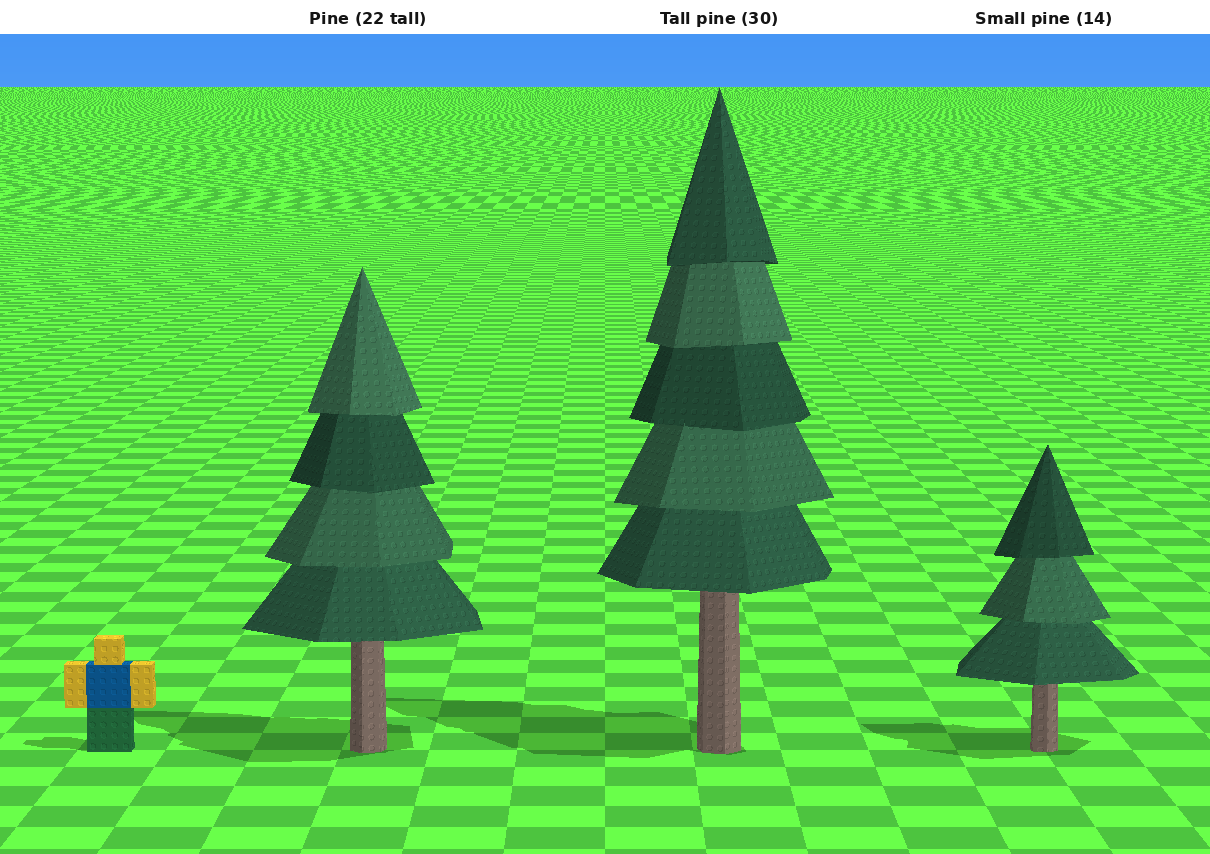
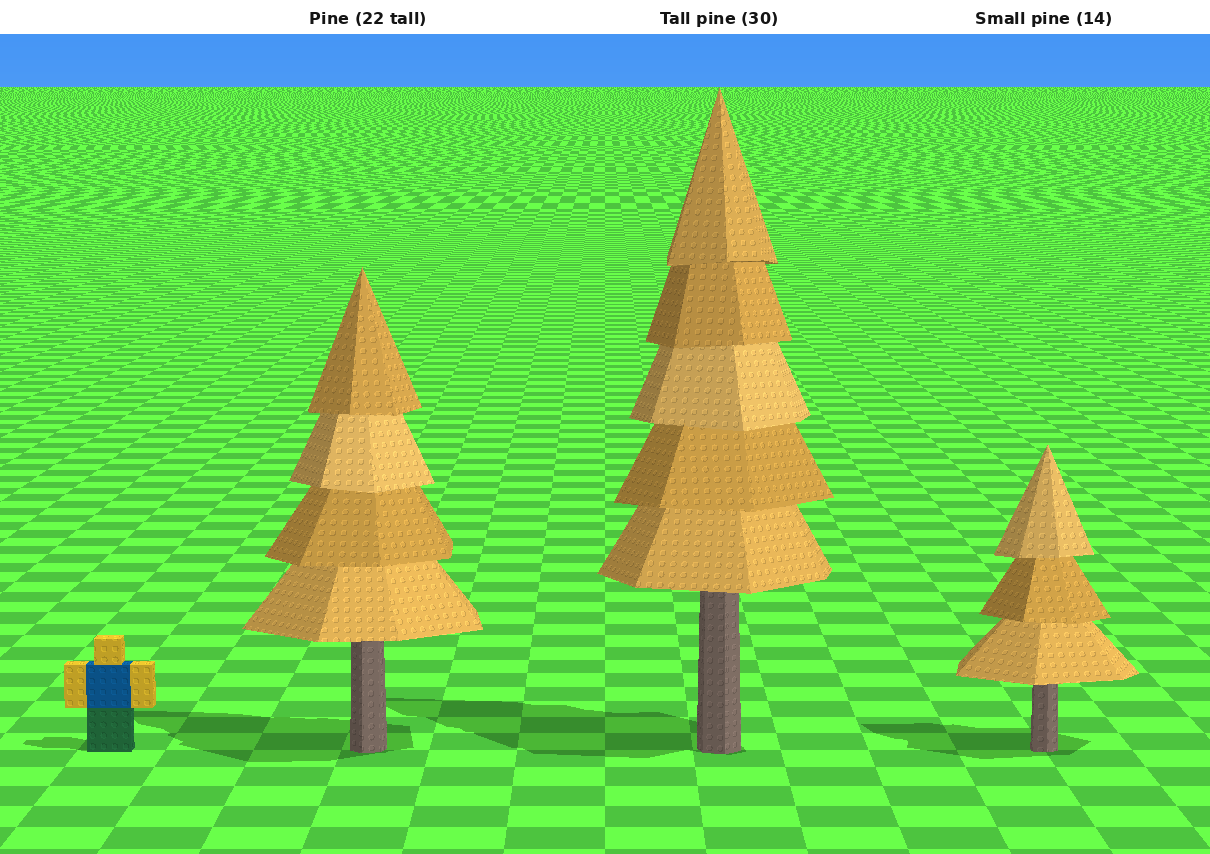
World 2: pine tiers and tufts in QM's mustard #E7B658, rocks near #999287
Claude-Session: https://claude.ai/code/session_01G2z5FpwRjkqyYaAUWYgk7A

Changed region(s): [[0.4893, 0.1218, 0.7033, 0.7002], [0.1835, 0.3044, 0.3975, 0.7611], [0.795, 0.5176, 0.9479, 0.822]]

diff --git a/tools/pine_meshes.py b/tools/pine_meshes.py
@@ -2,13 +2,13 @@
 (tools/plant_meshes.py): faceted convex pieces, flat shaded, studded, one colour per piece.
 
 A pine is a tall tapering trunk (wood #907D72, QM) with stacked faceted cone tiers,
-each tier its own piece in its own shade of pine green. Three sizes: tall, taller, small.
+each tier its own piece in its own shade of mustard (#E7B658). Three sizes: tall, taller, small.
 
 Run: python3 tools/pine_meshes.py
 Writes design/pines/<Name>.obj, design/pines/pieces/<Name>_<i>.obj (same origin; colours
 in pieces/colours.txt) and design/pines/pines_lineup.png.
-  --rocks: design/pines/rocks_w2.png, the rocks in ROCK_SHADES (near #907D72)
-  --scene: design/pines/world2_scene.png, pines, brown rocks, red flowers, pine-green tufts
+  --rocks: design/pines/rocks_w2.png, the rocks in ROCK_SHADES (near #999287)
+  --scene: design/pines/world2_scene.png, pines, brown rocks, red flowers, mustard tufts
 """
 
 import math
@@ -28,7 +28,7 @@ from plant_meshes import prism, parts_of  # noqa: E402
 
 OUT = os.path.join(HERE, "..", "design", "pines")
 WOOD = (0x90, 0x7D, 0x72)  # QM's #907D72
-NEEDLES = [(46, 96, 70), (58, 112, 80), (40, 86, 62), (66, 122, 88)]  # pine green shades (QM gave #907D72 twice)
+NEEDLES = [(231, 182, 88), (214, 166, 74), (242, 196, 104), (222, 172, 80)]  # QM: #E7B658 mustard, in four shades
 
 
 def cone(rng, y0, y1, r, sides=7, droop=0.5):
@@ -121,9 +121,9 @@ if __name__ == "__main__" and "--rocks" not in sys.argv and "--scene" not in sys
     main()
 
 
-# The rocks for the world 2 base (QM, Oct 13): near #907D72, five shades made the way
+# The rocks for the world 2 base (QM, Oct 13): near #999287, five shades made the way
 # tools/biome_rocks.SHADES makes the meadow's (the meadow's steps x 2.2 round the base).
-ROCK_SHADES = [(144, 125, 114), (120, 103, 94), (164, 145, 129), (131, 116, 96), (155, 132, 123)]
+ROCK_SHADES = [(153, 146, 135), (129, 124, 115), (173, 166, 150), (140, 137, 117), (164, 153, 144)]
 
 
 def rocks_render():
@@ -148,13 +148,13 @@ if __name__ == "__main__" and "--rocks" in sys.argv:
 
 
 # World 2 flowers and grass (QM, Oct 13): red petals (QM's colour came through as #907D72
-# again, so a plain red), and the grass tufts in the pines' greens.
+# again, so a plain red), and the grass tufts in the pines' mustard (#E7B658).
 RED_PETALS = (222, 52, 56)
 W2_GRASS = [NEEDLES[0], NEEDLES[1]]
 
 
 def scene_render():
-    """A world 2 corner: pines, the brown rocks, red flowers, pine-green tufts."""
+    """A world 2 corner: pines, the brown rocks, red flowers, mustard tufts."""
     import plant_meshes as PM
     import rock_meshes as RM
     partlib.GROUND = np.array((105, 255, 74), float)
@@ -173,7 +173,10 @@ def scene_render():
             scene += RM.as_parts([c], x, z, 30, color=ROCK_SHADES[i % 5])
     for _ in range(10):  # the flowers and tufts at 2x, as in the lobby
         x, z = rng.uniform(-20, 20), rng.uniform(-6, 10)
-        sc = [Part(p.name, p.size, partlib.T(x, 0, z) @ partlib.Ry(rng.uniform(0, 360)) @ np.diag([2, 2, 2, 1]) @ p.cf, p.color) for p in parts_of(flower, recolour={"Petals": RED_PETALS})]
+        sc = parts_of(flower, recolour={"Petals": RED_PETALS})
+        for p in sc:
+            p.cf = partlib.T(x, 0, z) @ partlib.Ry(rng.uniform(0, 360)) @ np.diag([2, 2, 2, 1]) @ p.cf
+            p.stud_axes = None
         scene += sc
     for _ in range(8):
         x, z = rng.uniform(-22, 22), rng.uniform(-6, 14)
